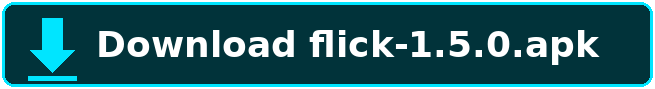
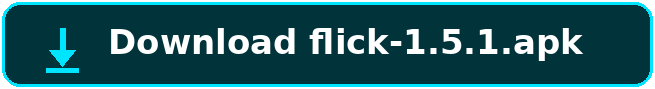
Flick v1.5.1: vibrate and blur fixes

diff --git a/app/src/main/java/com/ibfavas/flick/ui/MainScreen.kt b/app/src/main/java/com/ibfavas/flick/ui/MainScreen.kt
@@ -10,6 +10,9 @@ import android.content.pm.ResolveInfo
 import android.graphics.drawable.Drawable
 import android.net.Uri
 import android.os.Build
+import android.os.Handler
+import android.os.Looper
+import android.view.WindowManager
 import android.provider.ContactsContract
 import android.provider.Settings
 import android.widget.Toast
@@ -105,6 +108,7 @@ import androidx.compose.material3.Switch
 import androidx.compose.material3.Text
 import androidx.compose.material3.rememberModalBottomSheetState
 import androidx.compose.runtime.Composable
+import androidx.compose.runtime.DisposableEffect
 import androidx.compose.runtime.LaunchedEffect
 import androidx.compose.runtime.collectAsState
 import androidx.compose.runtime.getValue
@@ -145,6 +149,7 @@ import androidx.core.content.ContextCompat
 import androidx.core.graphics.drawable.toBitmap
 import com.ibfavas.flick.R
 import com.ibfavas.flick.actions.ActionExecutor
+import java.util.function.Consumer
 import com.ibfavas.flick.actions.Feedback
 import com.ibfavas.flick.actions.FlickAccessibilityService
 import com.ibfavas.flick.widget.FlickRoundWidgetProvider
@@ -2459,6 +2464,33 @@ private fun SettingsScreen(
     val context = LocalContext.current
     val scope = rememberCoroutineScope()
     val blurPx by settings.overlayBlur.collectAsState(initial = SettingsStore.DEFAULT_BLUR_PX)
+    // Live system cross-window blur state (v1.5.1): the phone can
+    // switch blur off at runtime, and then the blur slider does
+    // nothing no matter what it is set to. Show the real state
+    // under the slider so the user can see whether the phone
+    // supports blur at all.
+    val windowManager = context.getSystemService(Context.WINDOW_SERVICE) as? WindowManager
+    var systemBlurOn by remember {
+        mutableStateOf(
+            if (Build.VERSION.SDK_INT >= Build.VERSION_CODES.S) {
+                windowManager?.isCrossWindowBlurEnabled ?: true
+            } else {
+                false
+            }
+        )
+    }
+    DisposableEffect(windowManager) {
+        if (Build.VERSION.SDK_INT >= Build.VERSION_CODES.S && windowManager != null) {
+            val listener = Consumer<Boolean> { enabled ->
+                Handler(Looper.getMainLooper()).post { systemBlurOn = enabled }
+            }
+            windowManager.addCrossWindowBlurEnabledListener(listener)
+            systemBlurOn = windowManager.isCrossWindowBlurEnabled
+            onDispose { windowManager.removeCrossWindowBlurEnabledListener(listener) }
+        } else {
+            onDispose {}
+        }
+    }
     val opacity by settings.overlayOpacity.collectAsState(initial = SettingsStore.DEFAULT_OPACITY)
     val timeoutSeconds by settings.overlayTimeout.collectAsState(initial = SettingsStore.DEFAULT_TIMEOUT_S)
     val vibrateOnRun by settings.vibrateOnRun.collectAsState(
@@ -2630,6 +2662,17 @@ private fun SettingsScreen(
                     description = "Frosted glass background blur when the drawing pad is active (Android 12 and up).",
                     onChange = { scope.launch { settings.setOverlayBlur(it.toInt()) } }
                 )
+                Text(
+                    text = if (Build.VERSION.SDK_INT < Build.VERSION_CODES.S) {
+                        "System blur: not available on this Android version."
+                    } else if (systemBlurOn) {
+                        "System blur: on."
+                    } else {
+                        "System blur: off. This phone has blur switched off, so the pad uses a darker tint instead."
+                    },
+                    style = MaterialTheme.typography.bodySmall,
+                    color = MaterialTheme.colorScheme.onSurfaceVariant
+                )
                 SettingSlider(
                     label = "Overlay opacity",
                     valueText = "${(opacity * 100).toInt()}%",
@@ -2744,6 +2787,12 @@ private fun SettingsScreen(
                     checked = vibrateOnRun,
                     onChange = { scope.launch { settings.setVibrateOnRun(it) } }
                 )
+                OutlinedButton(
+                    onClick = { ActionExecutor.testVibrate(context) },
+                    modifier = Modifier.fillMaxWidth()
+                ) {
+                    Text("Test vibration")
+                }
                 SettingSwitch(
                     title = "Sound on run",
                     description = "A short beep when a gesture is recognised and runs.",

diff --git a/app/src/main/java/com/ibfavas/flick/actions/ActionExecutor.kt b/app/src/main/java/com/ibfavas/flick/actions/ActionExecutor.kt
@@ -19,6 +19,7 @@ import android.os.Vibrator
 import android.os.VibratorManager
 import android.provider.MediaStore
 import android.provider.Settings
+import android.util.Log
 import android.view.KeyEvent
 import android.widget.Toast
 import androidx.core.content.ContextCompat
@@ -339,26 +340,62 @@ object ActionExecutor {
      * vibrator, no buzz. Explicit full amplitude and an 80 ms buzz:
      * the old 50 ms at the default amplitude was too faint to feel
      * on some phones (v1.5.0).
+     *
+     * v1.5.1: the old version swallowed every failure silently, so a
+     * phone that could not vibrate looked exactly like one that could.
+     * Failures are now logged (tag "Flick"), and if the VibratorManager
+     * path fails or reports no vibrator, the legacy vibrator service
+     * is tried before giving up. Vibration still never breaks the
+     * action launch.
      */
+    fun testVibrate(context: Context) {
+        vibrate(context)
+    }
+
     private fun vibrate(context: Context) {
         try {
-            val vibrator = if (Build.VERSION.SDK_INT >= Build.VERSION_CODES.S) {
-                val manager =
-                    context.getSystemService(Context.VIBRATOR_MANAGER_SERVICE) as VibratorManager
-                manager.defaultVibrator
+            val managerVibrator = if (Build.VERSION.SDK_INT >= Build.VERSION_CODES.S) {
+                try {
+                    val manager =
+                        context.getSystemService(Context.VIBRATOR_MANAGER_SERVICE) as VibratorManager
+                    manager.defaultVibrator
+                } catch (e: Exception) {
+                    Log.w("Flick", "VibratorManager lookup failed, trying legacy vibrator", e)
+                    null
+                }
             } else {
-                @Suppress("DEPRECATION")
-                context.getSystemService(Context.VIBRATOR_SERVICE) as Vibrator
+                null
             }
-            if (!vibrator.hasVibrator()) return
+            val vibrator = managerVibrator?.takeIf { it.hasVibrator() }
+                ?: legacyVibrator(context)?.takeIf { it.hasVibrator() }
+                ?: run {
+                    Log.w("Flick", "No working vibrator on this device")
+                    return
+                }
             if (Build.VERSION.SDK_INT >= Build.VERSION_CODES.O) {
+                Log.d(
+                    "Flick",
+                    "Vibrating: hasAmplitudeControl=${vibrator.hasAmplitudeControl()}"
+                )
                 vibrator.vibrate(VibrationEffect.createOneShot(80, 255))
             } else {
+                Log.d("Flick", "Vibrating with legacy 80 ms buzz")
                 @Suppress("DEPRECATION")
                 vibrator.vibrate(80)
             }
         } catch (e: Exception) {
             // Vibration must never break running the action.
+            Log.w("Flick", "Vibration failed", e)
+        }
+    }
+
+    private fun legacyVibrator(context: Context): Vibrator? {
+        return try {
+            @Suppress("DEPRECATION")
+            context.getSystemService(Context.VIBRATOR_SERVICE) as Vibrator
+        } catch (e: Exception) {
+            Log.w("Flick", "Legacy vibrator lookup failed", e)
+            null
         }
     }
 

diff --git a/app/src/main/java/com/ibfavas/flick/DrawActivity.kt b/app/src/main/java/com/ibfavas/flick/DrawActivity.kt
@@ -6,6 +6,7 @@ import android.os.Build
 import android.os.Bundle
 import android.os.Handler
 import android.os.Looper
+import android.util.Log
 import android.view.WindowManager
 import androidx.activity.ComponentActivity
 import androidx.activity.SystemBarStyle
@@ -83,6 +84,8 @@ import kotlinx.coroutines.Dispatchers
 import kotlinx.coroutines.delay
 import kotlinx.coroutines.launch
 import kotlinx.coroutines.withContext
+import androidx.lifecycle.Lifecycle
+import androidx.lifecycle.LifecycleEventObserver
 import java.util.function.Consumer
 
 /**
@@ -172,7 +175,7 @@ private fun DrawScreen(
     onOpenSettings: () -> Unit
 ) {
     val scope = rememberCoroutineScope()
-    val activity = LocalContext.current as? android.app.Activity
+    val activity = LocalContext.current as? ComponentActivity
     val blurPx by settings.overlayBlur.collectAsState(initial = SettingsStore.DEFAULT_BLUR_PX)
     val opacity by settings.overlayOpacity.collectAsState(initial = SettingsStore.DEFAULT_OPACITY)
     // Cross-window blur can be switched off by the system at runtime
@@ -276,15 +279,31 @@ private fun DrawScreen(
 
     // Blur the screen behind the window (Android 12 and up). The blur
     // radius comes from settings; 0 means no blur, just the tint.
-    LaunchedEffect(blurPx) {
+    // v1.5.1: the radius used to be applied only once, when the blur
+    // setting changed. A radius set before the window attaches, or
+    // dropped by the system while the pad is paused, was silently
+    // lost, so the pad showed a sharp screen under the tint. It is
+    // now re-applied whenever the setting changes, whenever the
+    // system blur state changes, and every time the pad comes back
+    // to the foreground.
+    fun applyBlur() {
         if (Build.VERSION.SDK_INT >= Build.VERSION_CODES.S) {
             try {
                 activity?.window?.setBackgroundBlurRadius(blurPx)
             } catch (e: Exception) {
                 // Some devices do not support window blur; the tint alone
                 // still reads as frosted glass.
+                Log.w("Flick", "Setting background blur radius failed", e)
             }
         }
+    }
+    LaunchedEffect(blurPx, blurEnabled) { applyBlur() }
+    DisposableEffect(activity) {
+        val observer = LifecycleEventObserver { _, event ->
+            if (event == Lifecycle.Event.ON_RESUME) applyBlur()
+        }
+        activity?.lifecycle?.addObserver(observer)
+        onDispose { activity?.lifecycle?.removeObserver(observer) }
     }
 
     // Close on its own if no gesture is drawn within the timeout. Once

diff --git a/README.md b/README.md
@@ -9,7 +9,7 @@
 </p>
 
 <p align="center">
-  <img src="https://img.shields.io/badge/version-1.5.0-00E5FF" alt="Version 1.5.0">
+  <img src="https://img.shields.io/badge/version-1.5.1-00E5FF" alt="Version 1.5.1">
   <img src="https://img.shields.io/badge/license-Apache%202.0-00E5FF" alt="License: Apache 2.0">
   <img src="https://img.shields.io/badge/platform-Android-3DDC84" alt="Platform: Android">
   <img src="https://img.shields.io/badge/Kotlin-2.0-7F52FF" alt="Kotlin 2.0">
@@ -18,14 +18,23 @@
 ## ⬇ Download
 
 <p align="center">
-  <a href="https://github.com/ibfavas/Flick/releases/download/v1.5.0/flick-1.5.0.apk">
-    <img src="assets/download-button.png" alt="Download flick-1.5.0.apk" width="320">
+  <a href="https://github.com/ibfavas/Flick/releases/download/v1.5.1/flick-1.5.1.apk">
+    <img src="assets/download-button.png" alt="Download flick-1.5.1.apk" width="320">
   </a>
 </p>
 
 <p align="center">
   📦 <a href="https://github.com/ibfavas/Flick/releases">All releases</a>
 </p>
+
+## 🎉 What is new in 1.5.1
+
+🔧 A fix release for two things that still did not work on some phones.
+Vibrate on run now logs what goes wrong and falls back to the older
+vibrator if the new one fails, and Settings has a Test vibration button
+so you can check the buzz right away. The background blur on the drawing
+pad is re-applied every time the pad opens, and Settings now shows
+whether the phone itself has blur switched on or off.
 
 ## 🎉 What is new in 1.5.0
 
